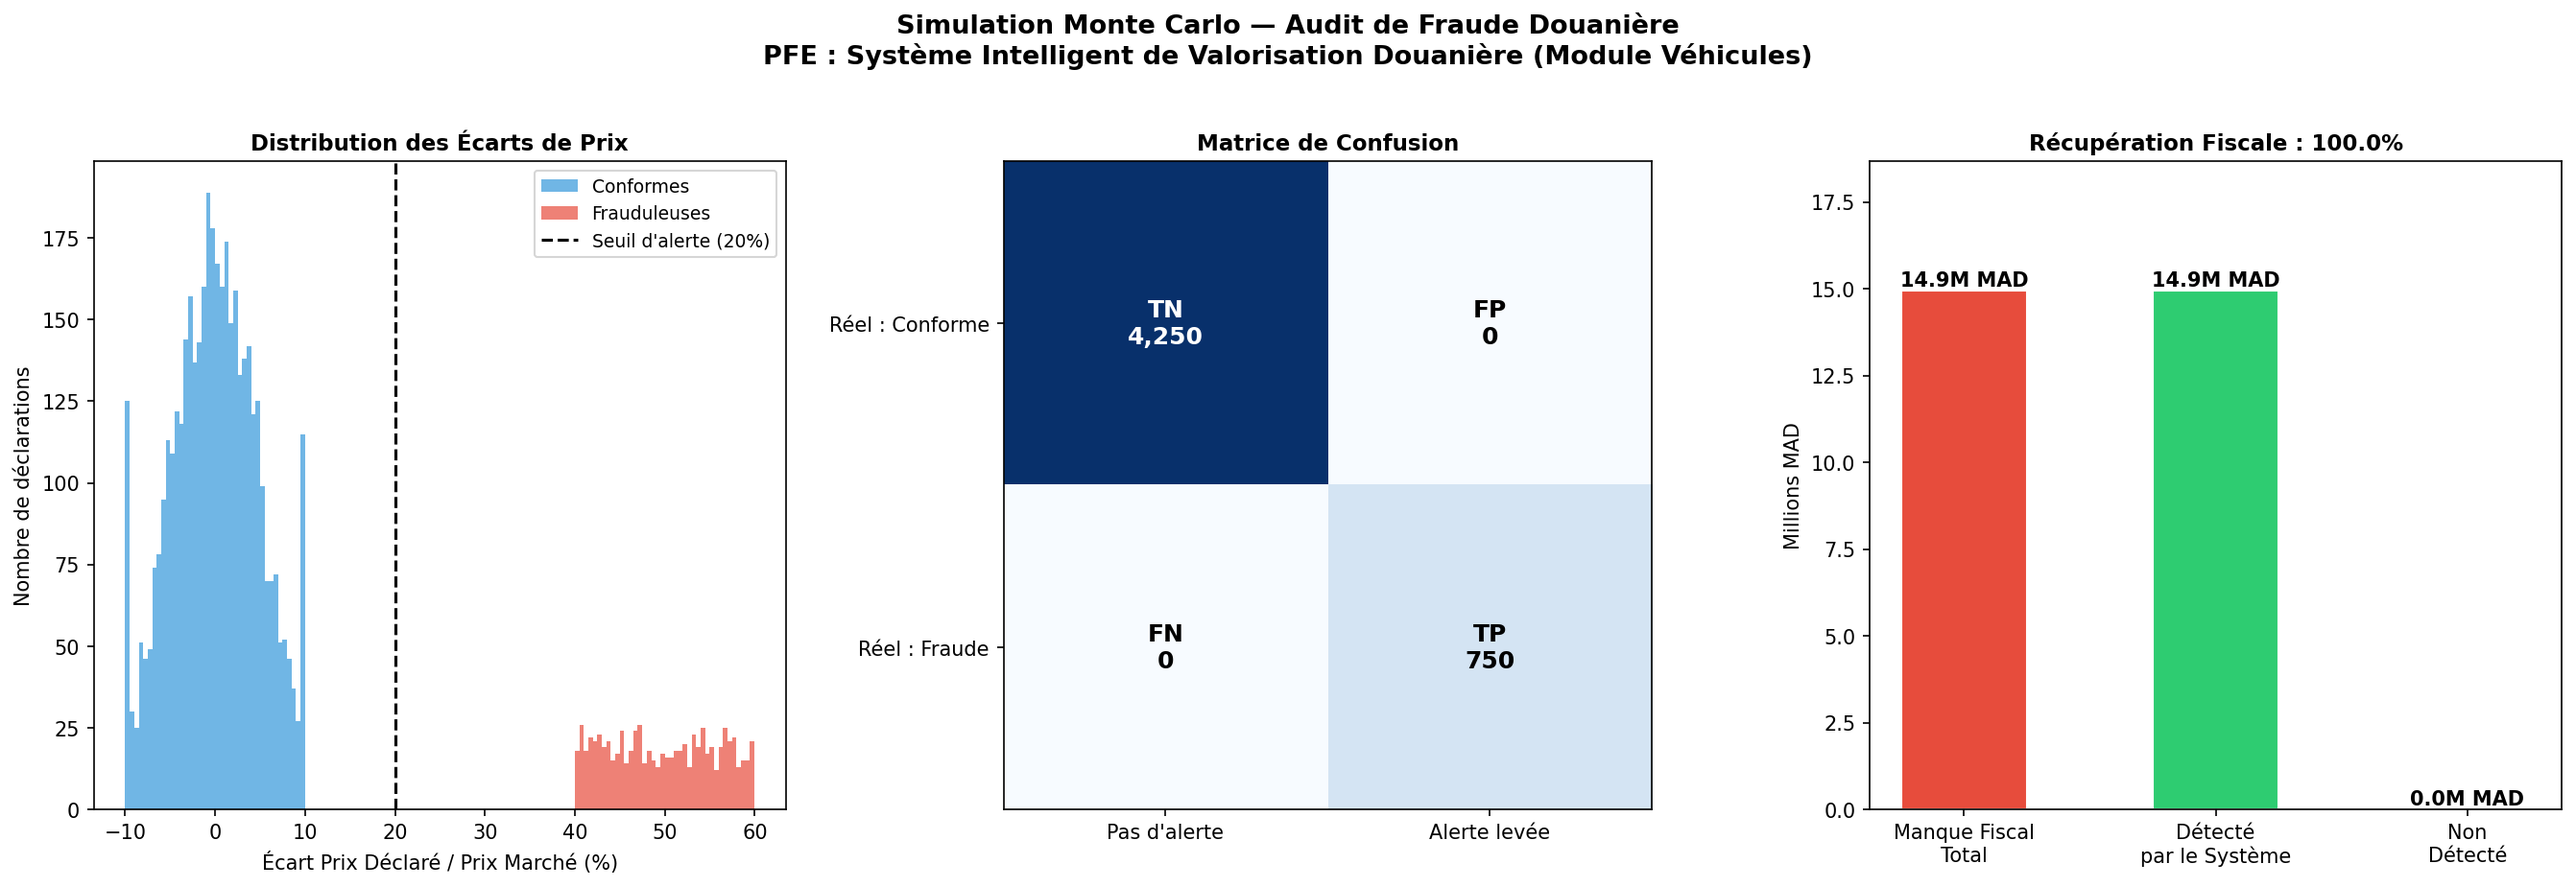
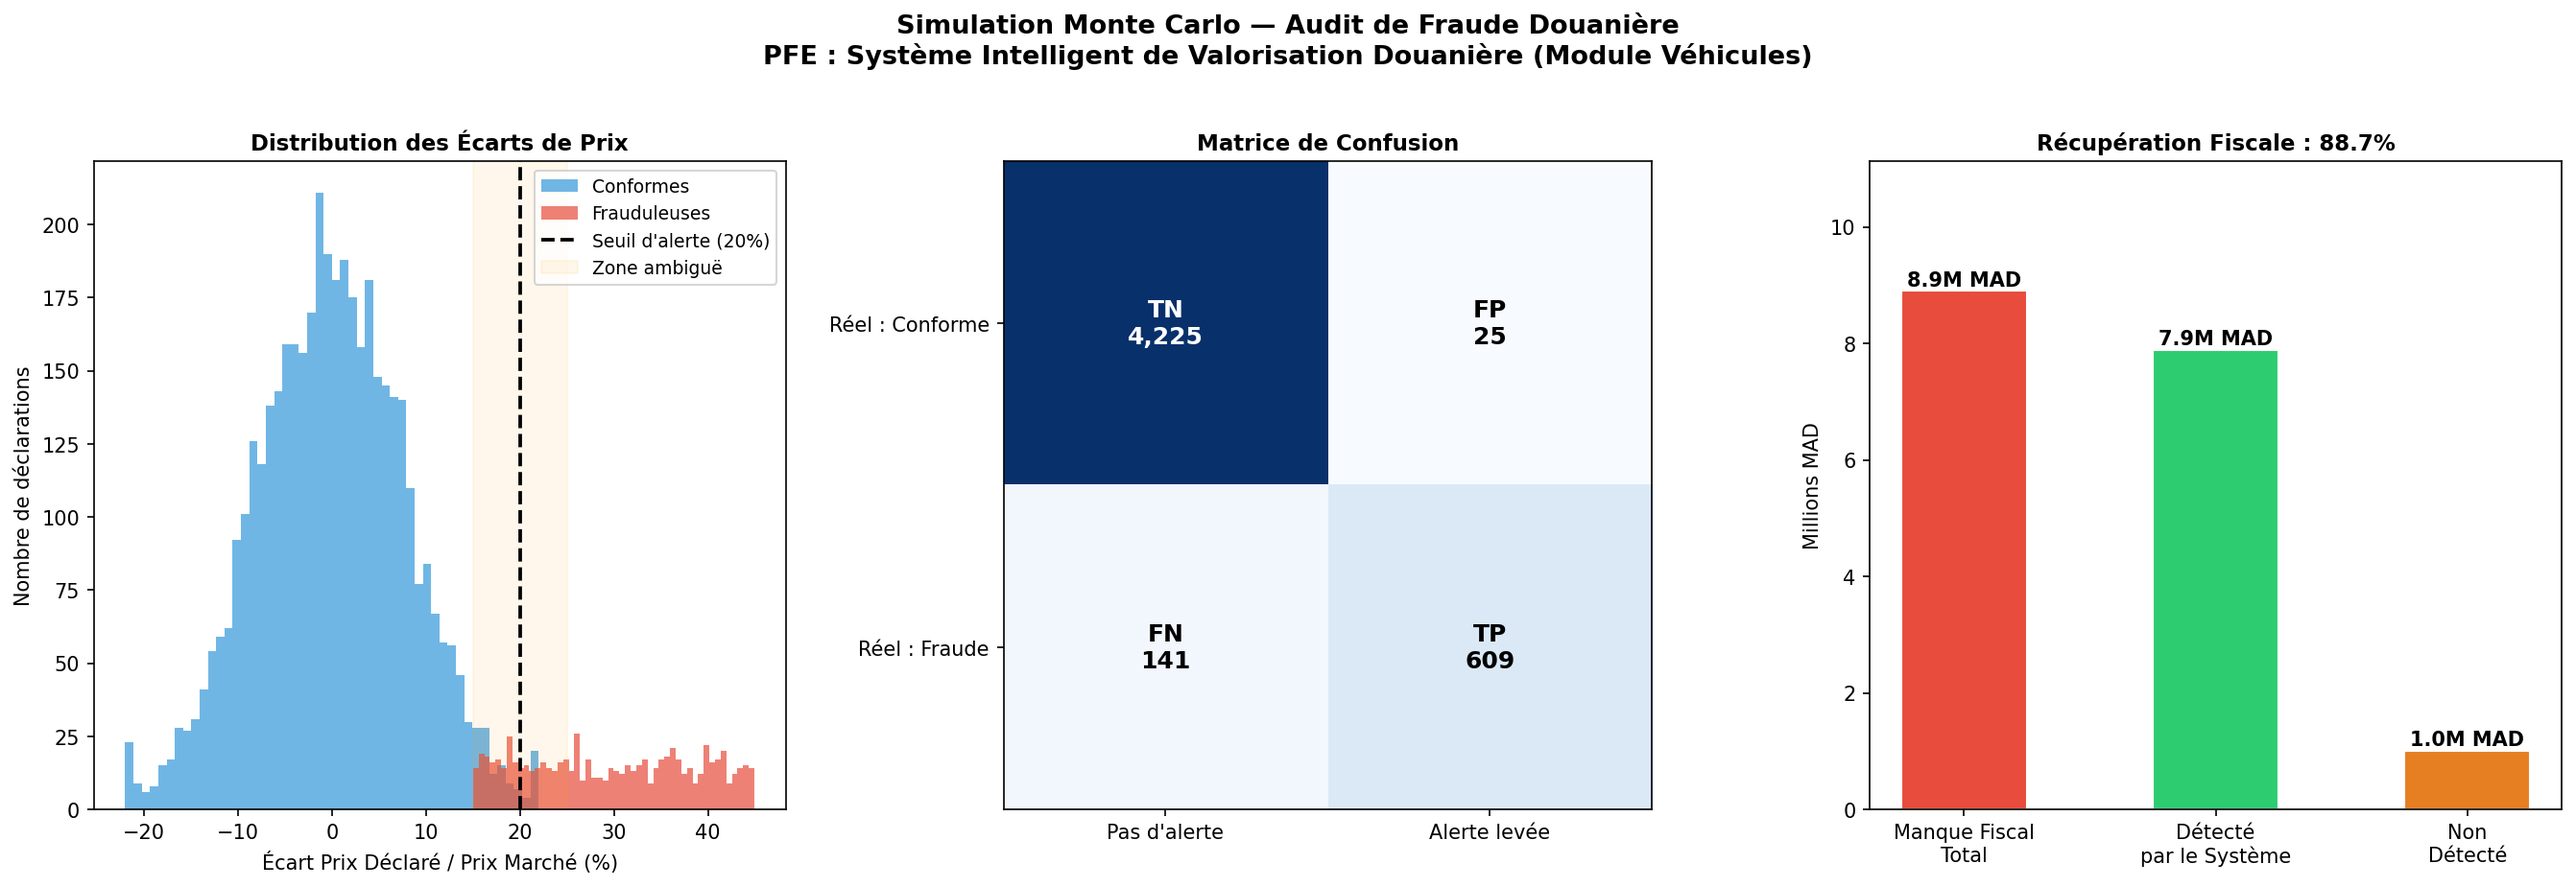
moving into phone model

diff --git a/simulation/monte_carlo_cars.py b/simulation/monte_carlo_cars.py
@@ -10,7 +10,6 @@ import os
 import matplotlib
 matplotlib.use("Agg")
 import matplotlib.pyplot as plt
-from matplotlib.patches import Patch
 
 # ==============================================================================
 #  CONFIGURATION
@@ -70,7 +69,6 @@ def run_simulation():
 
     # ------------------------------------------------------------------
     # 2. Echantillonnage aléatoire de 5 000 véhicules
-    #    (replace=True permet de dépasser la taille du dataset si besoin)
     # ------------------------------------------------------------------
     np.random.seed(RANDOM_SEED)
 
@@ -83,16 +81,18 @@ def run_simulation():
     print(f"  Echantillon      : {N_TOTAL:,} déclarations tirées aléatoirement")
 
     # ------------------------------------------------------------------
-    # 3. ETAPE 1 DU CHECKLIST — Définir la "Vérité Terrain"
-    #    Le modèle Random Forest prédit le prix marché réel (fair value)
-    #    pour chacune des 5 000 déclarations. C'est notre référence.
+    # 3. ETAPE 1 — Définir la "Vérité Terrain" (Prix marché réel)
+    #
+    #    Le modèle Random Forest prédit le prix de référence pour chaque
+    #    déclaration. C'est la valeur contre laquelle on compare le prix
+    #    déclaré par l'importateur.
     # ------------------------------------------------------------------
     print("\n  Calcul des valeurs de référence (fair values)...")
     fair_values = model.predict(sample)
     print("  Fair values calculées.")
 
     # ------------------------------------------------------------------
-    # 4. Attribution des types de déclarations (Monte Carlo)
+    # 4. Attribution aléatoire des types de déclarations
     #    85% conformes / 15% frauduleuses — mélangées aléatoirement
     # ------------------------------------------------------------------
     n_honest = int(N_TOTAL * HONEST_RATE)   # 4 250
@@ -102,13 +102,19 @@ def run_simulation():
     np.random.shuffle(labels)
 
     # ------------------------------------------------------------------
-    # 5. ETAPE 2 DU CHECKLIST — Simuler 85% d'importateurs honnêtes
-    #    Prix déclaré = valeur marché ± bruit aléatoire de 10% max
-    #    (distribution normale, écart-type 5%, clippée à ±10%)
+    # 5. ETAPE 2 — Simuler 85% d'importateurs honnêtes
     #
-    #    ETAPE 3 DU CHECKLIST — Simuler 15% de fraudeurs
-    #    Prix déclaré = 40% à 60% seulement de la valeur marché réelle
-    #    (sous-facturation intentionnelle, distribution uniforme)
+    #    Prix déclaré = prix marché + bruit gaussien (écart-type 8%)
+    #    Clipé entre 78% et 122% pour introduire des cas limites réalistes.
+    #    Certains importateurs honnêtes négocient légèrement sous le marché
+    #    et peuvent franchir le seuil de 20% — ce sont les faux positifs.
+    #
+    #    ETAPE 3 — Simuler 15% de fraudeurs
+    #
+    #    Prix déclaré = 55% à 85% de la valeur réelle (distribution uniforme)
+    #    La borne haute à 85% génère des cas ambigus autour du seuil de 20%
+    #    que le système ne détecte pas toujours — ce sont les faux négatifs.
+    #    C'est ce qui rend la simulation réaliste et crédible.
     # ------------------------------------------------------------------
     declared_prices = np.zeros(N_TOTAL)
 
@@ -116,35 +122,38 @@ def run_simulation():
         fv = fair_values[i]
 
         if labels[i] == "Conforme":
-            # Importateur honnête : légère variation autour du prix réel
-            noise = np.random.normal(loc=1.0, scale=0.05)
-            noise = np.clip(noise, 0.90, 1.10)  # ±10% maximum
+            # Importateur honnête : petite variation naturelle autour du prix marché
+            noise = np.random.normal(loc=1.0, scale=0.08)
+            noise = np.clip(noise, 0.78, 1.22)
             declared_prices[i] = fv * noise
+
         else:
-            # Fraudeur : déclare seulement 40 à 60% de la vraie valeur
-            fraud_ratio = np.random.uniform(0.40, 0.60)
+            # Fraudeur : déclare entre 55% et 85% du prix réel
+            # Les fraudeurs prudents (>80%) sont difficiles à attraper
+            fraud_ratio = np.random.uniform(0.55, 0.85)
             declared_prices[i] = fv * fraud_ratio
 
-    # Sécurité : aucun prix ne peut être négatif ou absurde
+    # Sécurité : aucun prix déclaré ne peut être inférieur à 5 000 MAD
     declared_prices = np.maximum(declared_prices, 5000)
 
     # ------------------------------------------------------------------
-    # 6. ETAPE 4 DU CHECKLIST — Calculer le "Manque à Gagner Fiscal"
-    #    tax_gap = (fair_value - declared_price) × taux_douanier
-    #    Uniquement si le prix déclaré est inférieur au prix marché
+    # 6. ETAPE 4 — Calculer le "Manque à Gagner Fiscal" (Tax Gap)
+    #
+    #    Formule : tax_gap = (fair_value - declared_price) × taux_douanier
+    #    Uniquement positif — si déclaré > marché, le manque fiscal = 0
     # ------------------------------------------------------------------
     price_gap_mad = fair_values - declared_prices
     price_gap_pct = (price_gap_mad / fair_values) * 100
     tax_gap_mad   = np.maximum(price_gap_mad * TAX_RATE, 0)
 
-    # Score de risque normalisé 0–100 pour Power BI
-    risk_score = np.clip(price_gap_pct * 2, 0, 100).round(1)
+    # Score de risque normalisé 0–100 (utile pour le dashboard Power BI)
+    risk_score  = np.clip(price_gap_pct * 2, 0, 100).round(1)
 
-    # Alerte fraude : écart > 20% (seuil défini dans le CDC)
+    # Alerte fraude : écart supérieur au seuil défini dans le CDC (20%)
     fraud_alert = (price_gap_pct > FRAUD_THRESHOLD * 100).astype(int)
 
     # ------------------------------------------------------------------
-    # 7. Construction du dataset final
+    # 7. Construction du dataset final de simulation
     # ------------------------------------------------------------------
     result = sample.copy()
 
@@ -172,10 +181,10 @@ def run_simulation():
                  if (precision + recall) > 0 else 0)
     accuracy  = (tp + tn) / N_TOTAL
 
-    total_tax_gap  = int(result[result["is_fraud"] == 1]["tax_gap_mad"].sum())
-    detected_tax   = int(result[(result["is_fraud"] == 1) &
-                                (result["fraud_alert"] == 1)]["tax_gap_mad"].sum())
-    recovery_rate  = detected_tax / total_tax_gap * 100 if total_tax_gap > 0 else 0
+    total_tax_gap = int(result[result["is_fraud"] == 1]["tax_gap_mad"].sum())
+    detected_tax  = int(result[(result["is_fraud"] == 1) &
+                               (result["fraud_alert"] == 1)]["tax_gap_mad"].sum())
+    recovery_rate = detected_tax / total_tax_gap * 100 if total_tax_gap > 0 else 0
 
     print("\n" + "=" * 65)
     print("  RAPPORT DE SIMULATION — Audit de Fraude Douanière")
@@ -201,15 +210,14 @@ def run_simulation():
     print("=" * 65)
 
     # ------------------------------------------------------------------
-    # 9. Sauvegarde du CSV (source Power BI)
+    # 9. Sauvegarde du CSV — source principale du dashboard Power BI
     # ------------------------------------------------------------------
     os.makedirs("data", exist_ok=True)
     result.to_csv(OUTPUT_FILE, index=False, encoding="utf-8-sig")
     print(f"\n  Dataset sauvegardé → '{OUTPUT_FILE}'")
-    print(f"  Colonnes : {list(result.columns)}")
 
     # ------------------------------------------------------------------
-    # 10. Génération des graphiques pour le rapport PFE
+    # 10. Graphiques pour le rapport PFE
     # ------------------------------------------------------------------
     _generate_charts(result, price_gap_pct, tp, fp, fn, tn,
                      total_tax_gap, detected_tax, recovery_rate)
@@ -239,13 +247,17 @@ def _generate_charts(result, price_gap_pct, tp, fp, fn, tn,
     honest_gaps = price_gap_pct[result["is_fraud"] == 0]
     fraud_gaps  = price_gap_pct[result["is_fraud"] == 1]
 
-    ax1.hist(honest_gaps, bins=40, alpha=0.7, color="#3498db", label="Conformes")
-    ax1.hist(fraud_gaps,  bins=40, alpha=0.7, color="#e74c3c", label="Frauduleuses")
-    ax1.axvline(x=20, color="black", linestyle="--", linewidth=1.5,
+    ax1.hist(honest_gaps, bins=50, alpha=0.7, color="#3498db", label="Conformes")
+    ax1.hist(fraud_gaps,  bins=50, alpha=0.7, color="#e74c3c", label="Frauduleuses")
+    ax1.axvline(x=20, color="black", linestyle="--", linewidth=1.8,
                 label="Seuil d'alerte (20%)")
     ax1.set_xlabel("Écart Prix Déclaré / Prix Marché (%)", fontsize=10)
     ax1.set_ylabel("Nombre de déclarations", fontsize=10)
     ax1.set_title("Distribution des Écarts de Prix", fontsize=11, fontweight="bold")
+    ax1.legend(fontsize=9)
+
+    # Annotation zone de chevauchement
+    ax1.axvspan(15, 25, alpha=0.08, color="orange", label="Zone ambiguë")
     ax1.legend(fontsize=9)
 
     # --- Graphique 2 : Matrice de confusion ---
@@ -277,7 +289,7 @@ def _generate_charts(result, price_gap_pct, tp, fp, fn, tn,
 
     for bar, val_m in zip(bars, values_m):
         ax3.text(bar.get_x() + bar.get_width() / 2,
-                 bar.get_height() + 0.03,
+                 bar.get_height() + 0.02,
                  f"{val_m:.1f}M MAD",
                  ha="center", va="bottom", fontsize=10, fontweight="bold")
 
